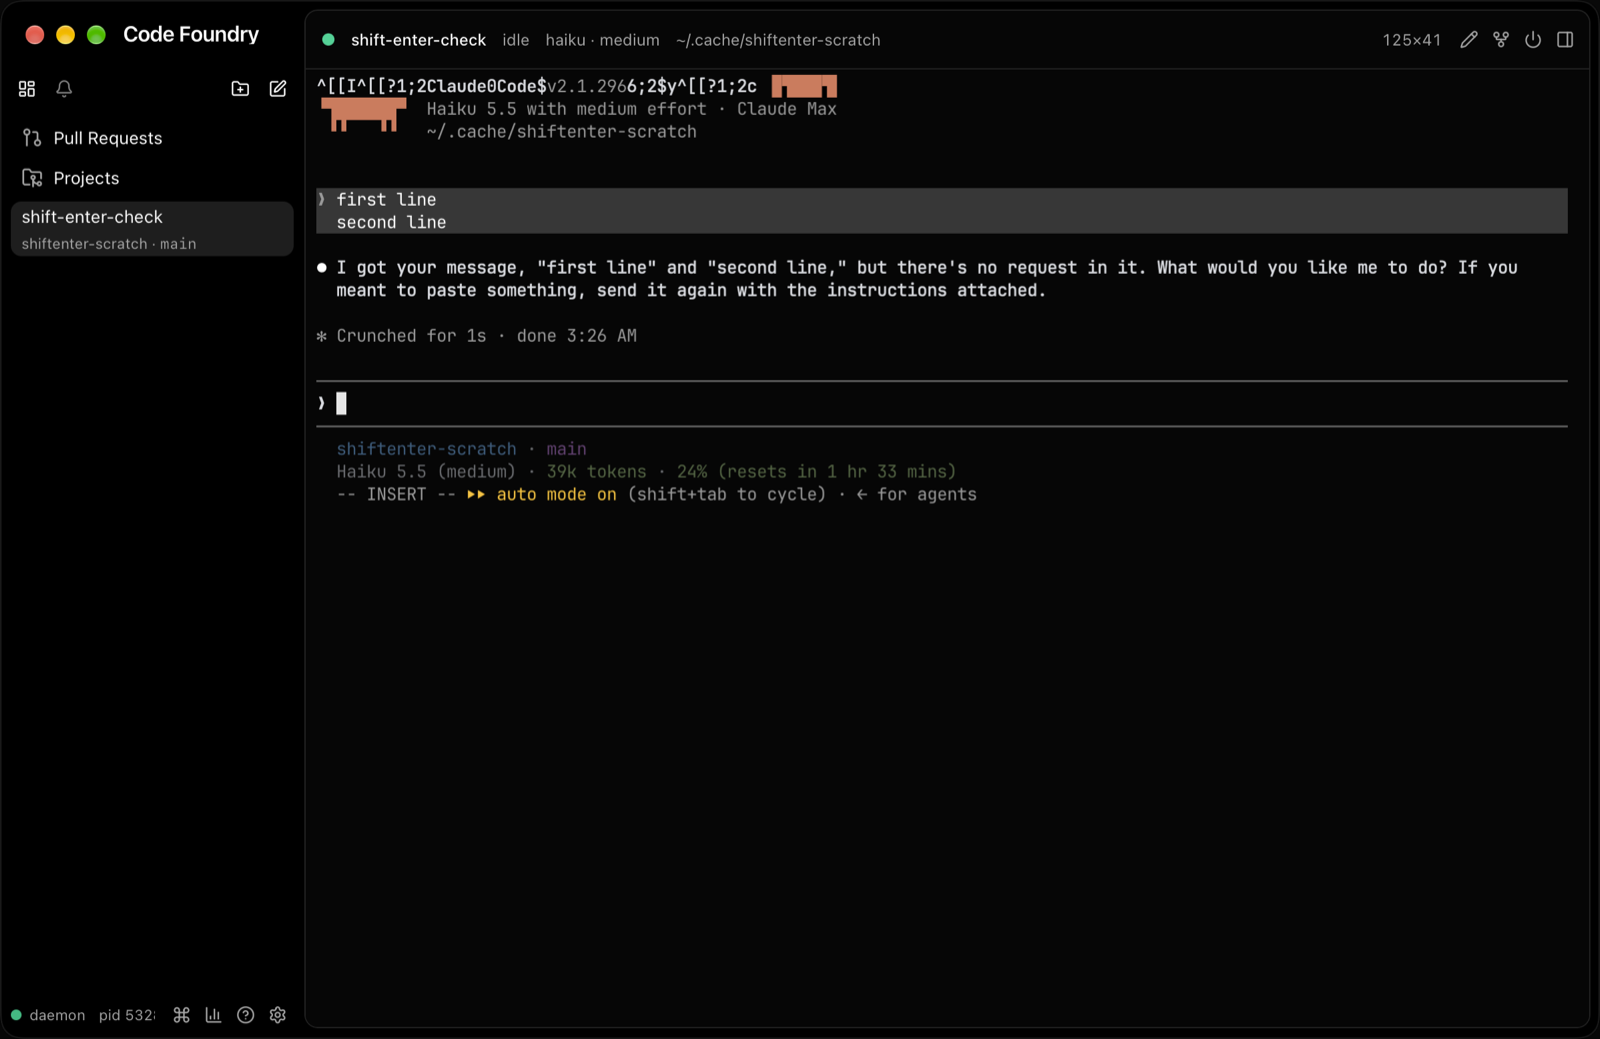
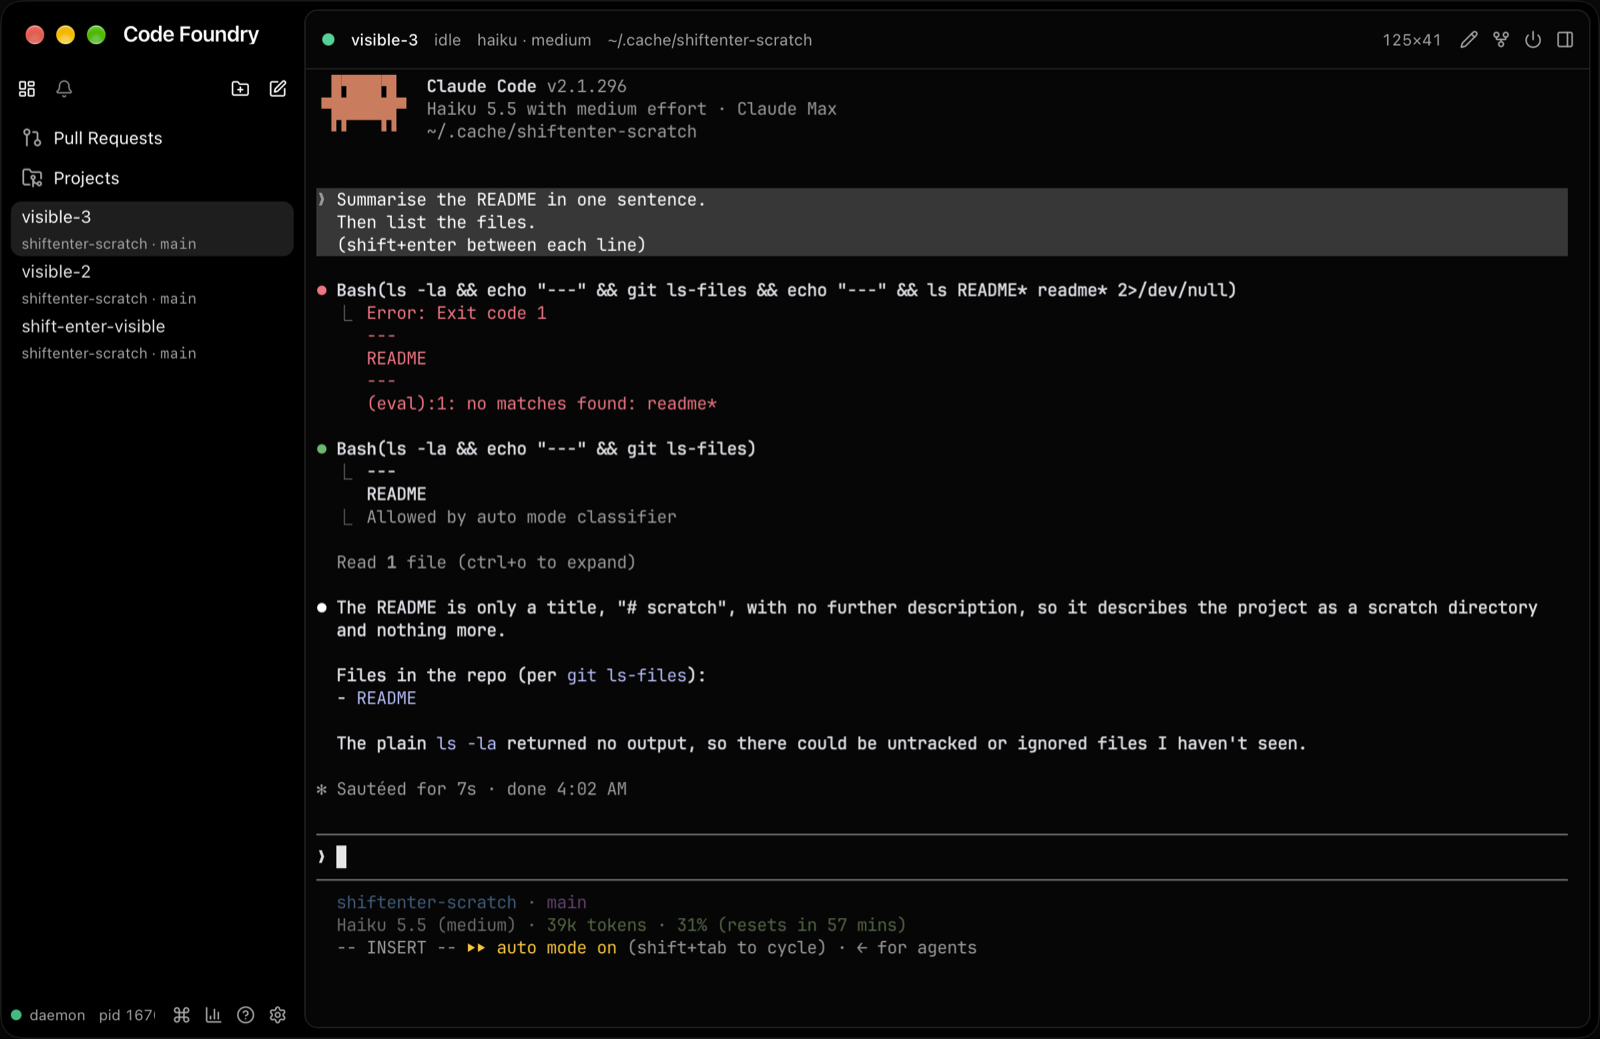
docs: duplicate query replies decision; live screenshots after merging main

diff --git a/docs/notes/terminal-shift-enter.md b/docs/notes/terminal-shift-enter.md
@@ -1,7 +1,8 @@
 # Shift+Enter in the terminal
 
-Status: done. Frontend-only (`gui/frontend/src/terminal/keyboard.ts`, `xterm.ts`). No
-daemon or proto change.
+Status: done. Frontend-only (`gui/frontend/src/terminal/keyboard.ts`, `queries.ts`,
+`xterm.ts`). No daemon or proto change. This PR also stops xterm.js from answering terminal
+queries the daemon already answers (see "Duplicate query replies").
 
 ## Problem
 
@@ -87,29 +88,76 @@ The key handler intercepts keydown **and** keypress for shift+enter, and calls
 * **Global chords:** nothing is bound to shift+enter. The check runs before
   `isGlobalChord`.
 
+## Duplicate query replies
+
+**Symptom.** When a thread was on screen while Claude started, its first line read
+`^[[I^[[?1;2c…6;2$y^[[?1;2c`.
+
+**Cause.** At startup Claude sends DA1, XTVERSION, the kitty `CSI ?u` query, and DECRQM
+`?2026`. The daemon's libghostty emulator answers these at once, from the actor. The
+attached xterm.js *also* answered DA1 (`?1;2c`) and DECRQM (`?2026;2$y`) through
+`onData` → `Write`. That reply arrives a GUI round trip later. Between its setup phases,
+Claude briefly puts the tty back into cooked mode with echo. A late reply landing in that
+window is echoed onto the screen as text.
+
+**Fix (`queries.ts`).** The daemon becomes the only responder. xterm parser handlers that
+return `true` consume the queries before xterm's own handlers can reply:
+
+| Query | xterm's reply | Daemon (libghostty) | Decision |
+|---|---|---|---|
+| DA1 `CSI c`, DA2 `CSI > c` | yes | `vt.go` handler (DA1/2/3) | swallow |
+| DSR `CSI 5n`/`6n`, `CSI ? 6n` | yes | built in | swallow |
+| DECRQM `CSI $p`, `CSI ? $p` | yes | built in | swallow |
+| DECRQSS `DCS $ q` | yes | built in | swallow |
+| OSC 4 palette query (`n;?` only) | yes | built in (its palette) | swallow; OSC 4 *sets* still reach xterm |
+| OSC 10/11/12 color query | yes (theme colors) | no reply (no default fg/bg configured) | **keep**: xterm is the only answer |
+| Focus in/out `CSI I`/`CSI O` | yes (mode 1004) | cannot know focus | **keep**: an event, not a reply |
+| XTVERSION, kitty `CSI ?u`, DA3, XTWINOPS | no (xterm 6 lacks them, window ops are off) | built in / size handler | nothing to do |
+
+**Do programs lose anything?** No. Every swallowed query still gets exactly one answer,
+from the daemon. That answer arrives sooner, does not depend on a GUI being attached, and
+comes once per query rather than once per attached window. vim's DA/DECRQM probing,
+zsh/starship cursor-position queries, and Claude's synchronized-output probe all still
+get answered. Two answers did differ: the daemon reports DA1 as VT220 + ANSI color
+(`?62;22c`) where xterm said `?1;2c`, and its OSC 4 replies use libghostty's default
+palette rather than the xterm theme. In both cases programs already took the daemon's
+answer, because it was always first.
+
+**Side effect on status detection.** `phase2-integration.md` noted that xterm's
+auto-replies reached the detector's `Input` as if the user had typed. With them gone,
+`Input` from a GUI means keys, pastes, mouse, and focus reports only. Acknowledgement does
+not depend on it: `runner.acknowledge` keys off a viewer being attached.
+
+**Kept and not fixed: focus reports.** They are user events: nvim `FocusGained` and
+Claude both use them. If the window gains focus during Claude's brief cooked-mode window,
+`^[[I` can still be echoed. Three visible-at-launch starts in the live check showed
+nothing.
+
+The tests (`queries.test.ts`) write each query into a real, opened xterm in jsdom
+(`matchMedia` stubbed) and assert that `onData` stays silent, and that OSC 10/11 are
+still answered. With the swallowing disabled, 11 of the cases fail. Kitty tracking still
+works alongside (an OSC 4 set followed by a kitty push).
+
 ## Verification
 
 * `keyboard.test.ts`: a table of mode sequences mapped to the expected shift+enter bytes,
   plus stack eviction and masking. `xterm.test.ts`: a real xterm `Terminal` in jsdom
   checks the parser-hook wiring, alt-screen switching, and RIS, and runs the key handler
-  for keydown/keypress, enter, ctrl+enter, and IME composition.
-* Live (`make gui-build`, isolated `CODE_FOUNDRY_HOME=/tmp/shiftenter-pr`): in a haiku
-  thread, text + shift+enter + text gave a multi-line prompt, and Enter then submitted
-  both lines as one message. In a `zsh -il` terminal, shift+enter ran the command like
-  Enter.
+  for keydown/keypress, enter, ctrl+enter, and IME composition. `queries.test.ts`: see
+  above.
+* Live (`make gui-build`, isolated `CODE_FOUNDRY_HOME=/tmp/shiftenter-pr2`, after merging
+  main): three haiku threads were started with the window frontmost and the new thread
+  visible, and none showed replies at the top. Text + shift+enter + text gave a
+  multi-line prompt, and Enter submitted all three lines as one message. In a `zsh -il`
+  terminal, shift+enter ran the command like Enter.
 
+![Thread visible from launch: no echoed replies](terminal-shift-enter/claude-startup-visible.png)
 ![Claude prompt with shift+enter](terminal-shift-enter/claude-shift-enter.png)
-![Enter submits both lines](terminal-shift-enter/claude-enter-submits.png)
+![Enter submits all lines](terminal-shift-enter/claude-enter-submits.png)
 ![zsh: shift+enter runs the line](terminal-shift-enter/zsh-shift-enter.png)
 
 ## Gotchas
 
-* **A thread attached while Claude starts shows its startup query replies as text.** In
-  `claude-enter-submits.png`, the first line reads `^[[I^[[?1;2c…6;2$y`. That is xterm.js
-  answering DA1/DECRQM/focus while Claude's tty is still in cooked mode, and the tty
-  echoes the answer. It is unrelated to this change; `phase2-integration.md` notes that
-  xterm auto-replies. It disappears if the GUI attaches after startup, and the parser
-  hooks suggested in `phase1a-terminal.md` would fix it.
 * **A shared `GOCACHE` across worktrees can link the wrong libghostty.** A throwaway cgo
   build tried to link `libghostty-vt.a` from another worktree's `third_party/` path.
   Use a separate `GOCACHE` for one-off cgo builds outside `make`.
